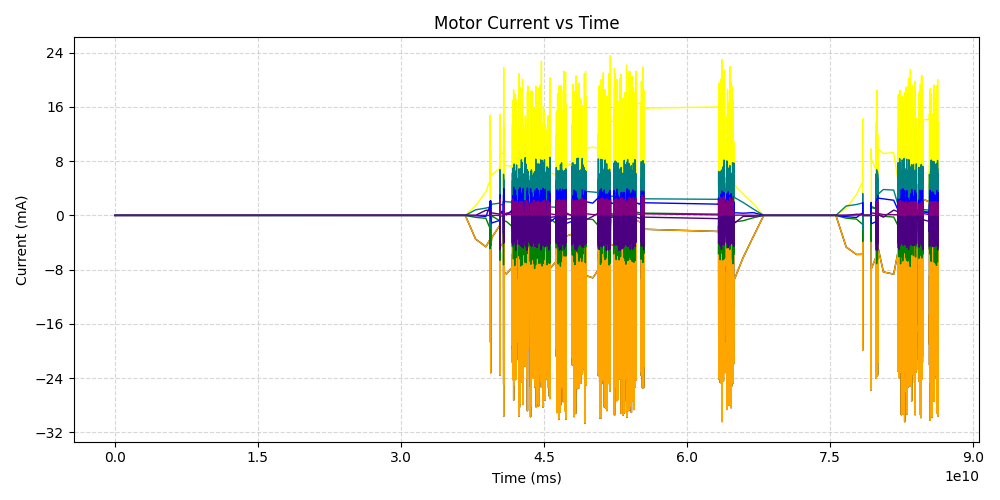
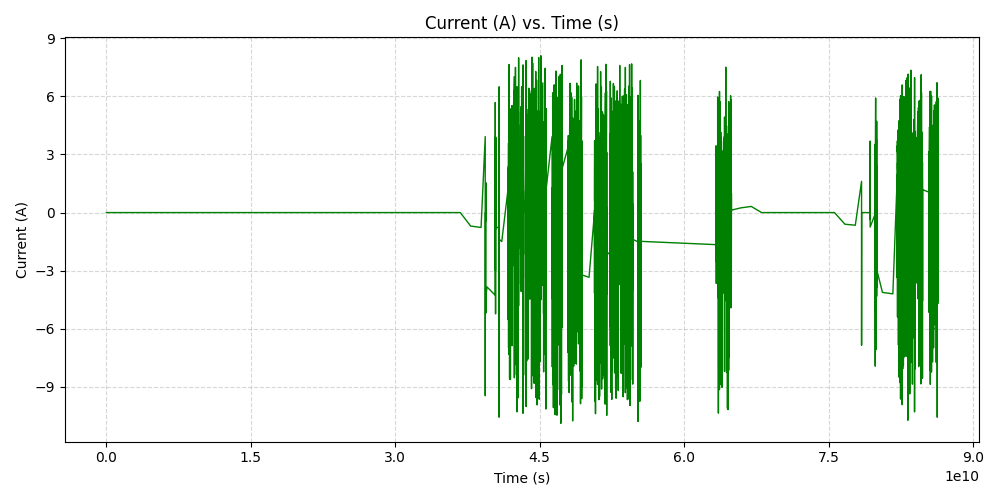
Finished newplotter.py

diff --git a/newplotter.py b/newplotter.py
@@ -1,0 +1,73 @@
+import matplotlib.pyplot as plt
+import matplotlib.ticker as ticker
+import numpy as np
+import csv
+import os
+
+file_name = '.\\data\\robot_7_2026-02-17.csv'
+
+
+#CONSTANTS MANAGEMENT
+WINDOW = 5 # Convolution average
+DOWNSAMPLE = 20   # change to 5–50 depending on density
+LEN_DATA = 10000000000
+
+
+# must come from the same file or you get errors!
+def train_additional_function(file_name, index, color, plot: plt.Axes, multiplier = 1):
+    print(f"Plotting index {index}")
+    x, y = [], []
+    with open(file_name, 'r', newline='') as f:
+        reader = csv.reader(f)
+        next(reader)  # skip header
+
+        for row in reader:
+            try:
+                t = float(row[0])      # time (µs or ms)
+                current = float(row[index]) * multiplier  # convert to C
+
+                x.append(t)
+                y.append(current)
+
+            except:
+                pass
+    len_data = min(len(x), LEN_DATA)
+
+    x = np.array(x)
+    x = (x - x[0]) / 1000.0  # µs → ms
+
+    print(f"Almost done index {index}")
+    y = np.array(y)
+    x = x[:len_data]
+    x = x[::DOWNSAMPLE]
+    y = y[:len_data]
+    y = y[::DOWNSAMPLE]
+    y_smothered = np.convolve(y, np.ones(WINDOW)/WINDOW, mode='same') 
+    plot.plot(x, y_smothered, color=color, linewidth=1)
+    print(f"Finished index {index}")
+
+
+def create_figure(x_label, y_label):
+    fig, ax = plt.subplots(figsize=(10, 5))
+    
+    ax.set_xlabel(x_label)
+    ax.set_ylabel(y_label)
+    ax.set_title(f"{y_label} vs. {x_label}")
+
+    return fig, ax
+
+def print_figure(ax: plt.Axes, file_name = 'MotorStallTestSetup/plots/plot.png', show = False):
+
+    ax.xaxis.set_major_locator(ticker.MaxNLocator(8))
+    ax.yaxis.set_major_locator(ticker.MaxNLocator(8))
+
+    ax.grid(True, linestyle='--', alpha=0.5)
+
+    plt.tight_layout()
+    plt.savefig(file_name)
+    if show:
+        plt.show()
+
+fig1, ax1 = create_figure("Time (s)", "Current (A)")
+train_additional_function(file_name, 19, 'green', ax1)
+print_figure(ax1)